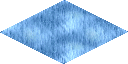
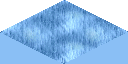
fixed water full texture

Changed region(s): [[0.0, 0.5, 1.0, 1.0]]

diff --git a/dev/water/gen_water.py b/dev/water/gen_water.py
@@ -39,7 +39,7 @@ for i in range(256):
         water_base.paste(water_4, (0,0), water_4)
     if (binary[6] == '1' or (binary[5] == '1' and binary[7] == '1')):
         water_base.paste(water_6, (0,0), water_6)
-    if (all(char == '1' for char in binary)):
+    if (binary[1] == '1' and binary[3] == '1' and binary[5] == '1' and binary[7] == '1'):
         water_base.paste(water_full, (0,0), water_full)
 
     water_base.save("../resources/tiles/water/water_%03d.png" % (i))
